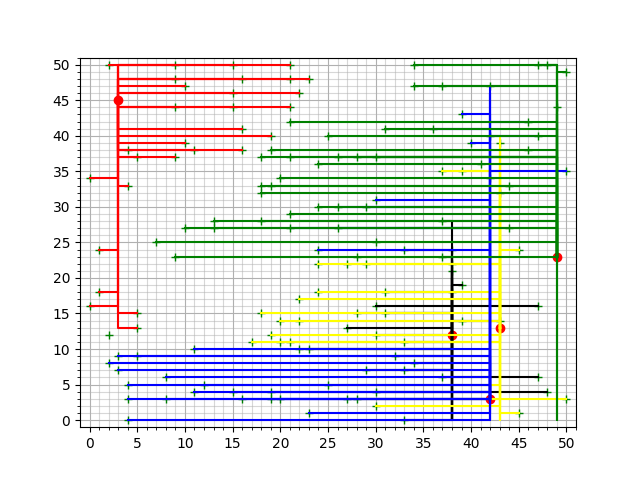
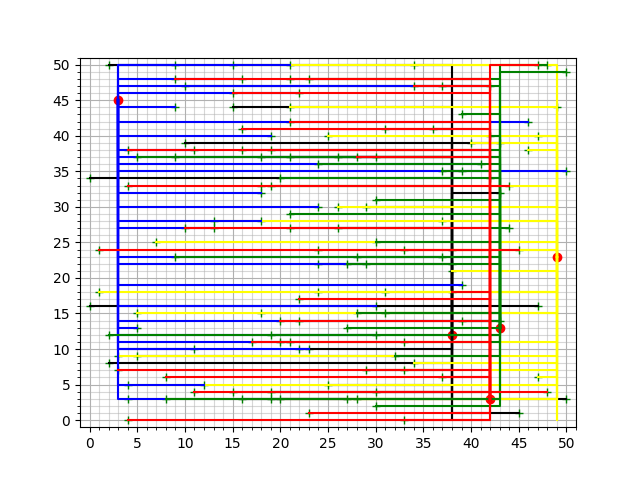
function try_again moved to district.py

Changed region(s): [[0.1562, 0.125, 0.875, 0.875]]

diff --git a/main.py b/main.py
@@ -29,12 +29,32 @@ if  __name__ == "__main__":
     # with open (jsonFilePath, "w") as jsonfile:
     #     jsonfile.write(json.dumps(data, indent=4 ))
 
-    test_district = district.District("data/district-1_batteries.csv","data/district-1_houses.csv")
+    # test_district = district.District("data/district-1_batteries.csv","data/district-1_houses.csv")
    
     
-    possibility = randomly_connect(test_district)
-    visual_district = make_district(test_district)
+    
+    # visual_district = make_district(test_district)
     
  
-    print(possibility.calc_costs())
+    # print(possibility.calc_costs())
+    # print(possibility.retries)
+   
 
+    total_costs = 0
+    total_retries = 0
+    lowest_costs = 6000
+    i=0
+    for i in range(1000):
+        test_district = district.District("data/district-1_batteries.csv","data/district-1_houses.csv")
+        possibility = randomly_connect(test_district)
+        total_retries = total_retries + possibility.retries
+        total_costs = total_costs + possibility.calc_costs()
+        if possibility.calc_costs() < lowest_costs:
+            lowest_costs = possibility.calc_costs()
+        i= i+1    
+
+    print(f"Lowest: {lowest_costs}")
+    average_retries = total_retries / 1000
+    print(f"Average amount of retries: {average_retries}")
+    average_costs = total_costs / 1000
+    print(f"Average costs: {average_costs}")    

diff --git a/code/classes/district.py b/code/classes/district.py
@@ -18,6 +18,7 @@ class District():
     def __init__(self, batteries_file, houses_file):
         self.batteries = self.load_batteries(batteries_file)
         self.houses = self.load_houses(houses_file)
+        self.retries = 0
 
     def load_batteries(self, batteries_file):
         """Load all batteries into district"""   
@@ -74,3 +75,18 @@ class District():
         """Returns the total length of all cables"""
         total_cable_length = sum(house.get_cable_length() for house in self.houses)    
         return total_cable_length
+
+
+    def add_retry(self):
+        self.retries = self.retries +1
+
+
+    def try_again(self):
+        for house in self.get_houses():
+            house.connected = False
+            house.cable_points = []
+            house.reset_cable_length()
+        for battery in self.get_batteries():
+            battery.connected_houses = []    
+
+            

diff --git a/code/algorithms/random.py b/code/algorithms/random.py
@@ -22,15 +22,8 @@ def randomly_connect(district):
                 house.construct_cable(battery)
                 break
         if house.connected == False:
-            try_again(district)
+            district.add_retry()
+            district.try_again()
     return district        
-
-
-def try_again(district):
-    for house in district.get_houses():
-        house.connected = False
-        house.cable_points = []
-        house.reset_cable_length()
-    for battery in district.get_batteries():
-        battery.connected_houses = []    
+   
 
